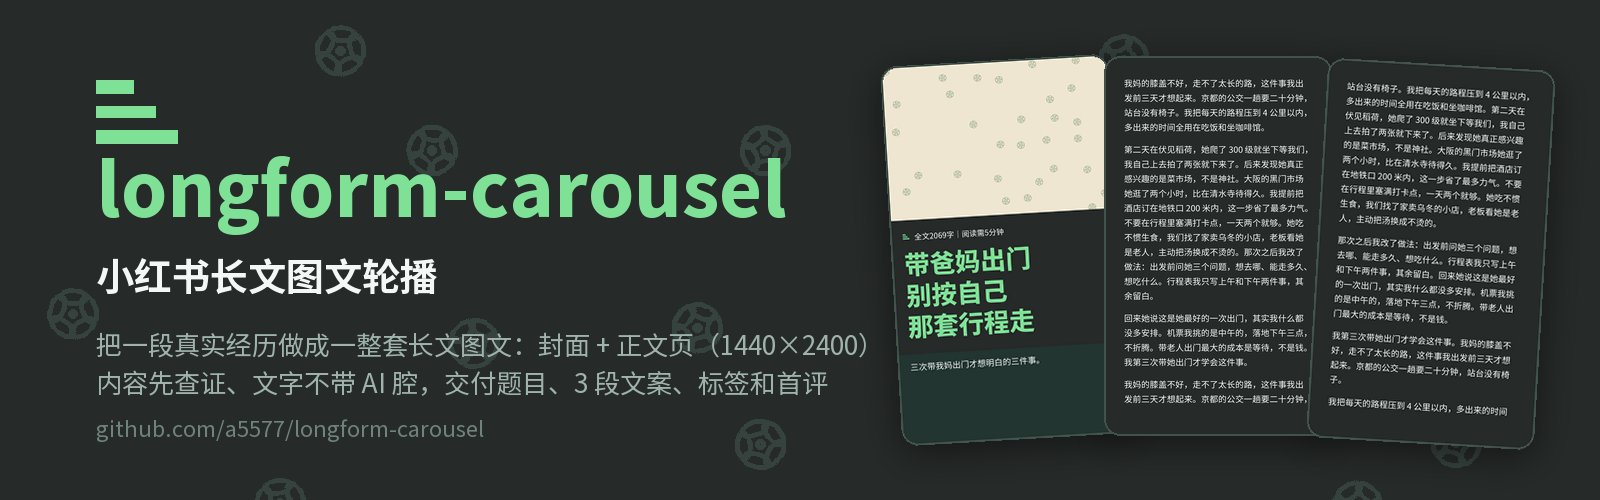
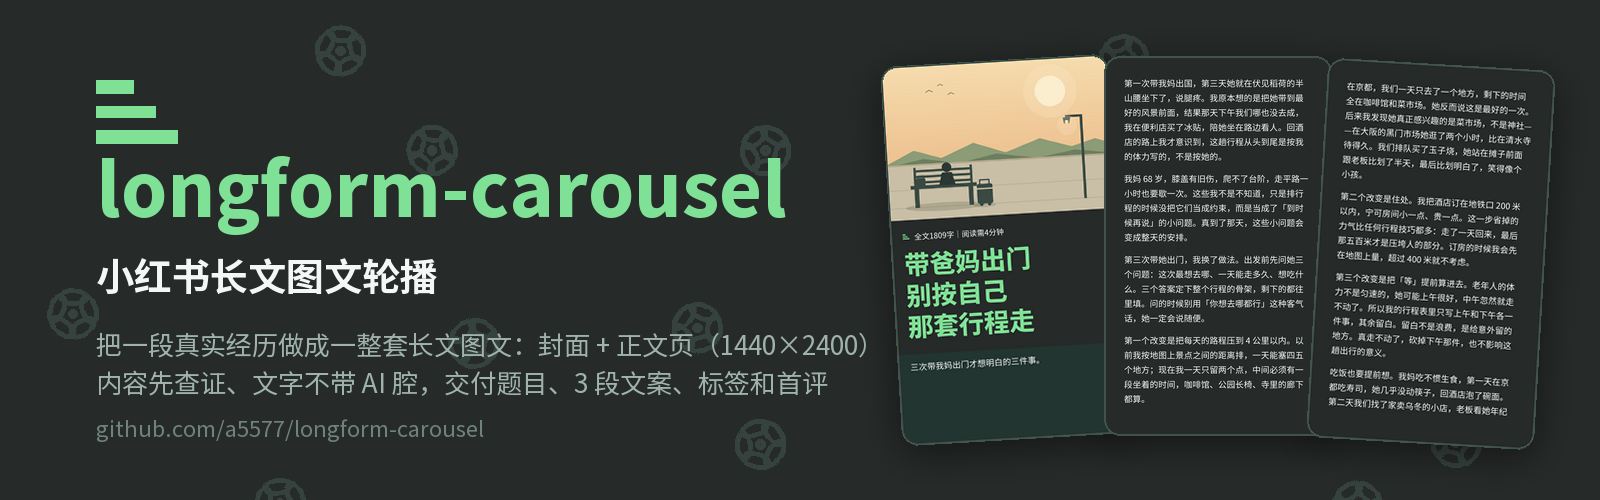
加一份可直接运行的示例，封面插画改用对应画面
- examples/带爸妈出门：笔记.json(1809字) + 来源.md + make_cover.py + cover.png
- 封面插画改为代码绘制的黄昏小站场景，替掉原来的空渐变，重新生成横幅
- README 增加示例一节

Changed region(s): [[0.5312, 0.09, 0.9688, 0.84]]

diff --git a/examples/带爸妈出门/make_cover.py b/examples/带爸妈出门/make_cover.py
@@ -1,0 +1,139 @@
+#!/usr/bin/env python3
+# -*- coding: utf-8 -*-
+"""画这张示例的封面插画（1440×976，扁平风黄昏小站）。
+
+用法：
+    python make_cover.py [输出路径]
+
+为什么是画出来的：这张图要长期放在开源仓库里当示例，用代码画就没有素材授权问题，
+谁 clone 下来都能重跑出一模一样的图。想换成自己拍的照片或 $imagegen 生成的图，
+把 cover.png 替掉即可。
+"""
+
+from __future__ import annotations
+
+import sys
+from pathlib import Path
+
+from PIL import Image, ImageDraw
+
+W, H = 1440, 976
+S = 2                      # 画布放大倍数，画完再缩回去，等于抗锯齿
+
+SKY_TOP = (246, 220, 174)
+SKY_BOT = (232, 178, 127)
+SUN = (251, 240, 210)
+HALO = (250, 232, 196)
+HILL_FAR = (140, 156, 119)
+HILL_NEAR = (109, 127, 94)
+PLATFORM = (201, 191, 166)
+PLATFORM_EDGE = (179, 168, 143)
+INK = (44, 56, 51)
+INK_SOFT = (58, 74, 67)
+WARM = (247, 227, 188)
+
+
+def rect(d, x0, y0, x1, y1, color):
+    d.rectangle((x0 * S, y0 * S, x1 * S, y1 * S), fill=color)
+
+
+def rrect(d, x0, y0, x1, y1, r, color):
+    d.rounded_rectangle((x0 * S, y0 * S, x1 * S, y1 * S), radius=r * S, fill=color)
+
+
+def ellipse(d, cx, cy, rx, ry, color, outline=None, width=0):
+    box = ((cx - rx) * S, (cy - ry) * S, (cx + rx) * S, (cy + ry) * S)
+    d.ellipse(box, fill=color, outline=outline, width=int(width * S))
+
+
+def line(d, pts, color, w):
+    d.line([(x * S, y * S) for x, y in pts], fill=color, width=int(w * S), joint="curve")
+
+
+def poly(d, pts, color):
+    d.polygon([(x * S, y * S) for x, y in pts], fill=color)
+
+
+def sky(img):
+    px = img.load()
+    top, bot = SKY_TOP, SKY_BOT
+    for y in range(H * S):
+        t = y / (H * S - 1)
+        c = tuple(round(top[i] + (bot[i] - top[i]) * t) for i in range(3))
+        for x in range(W * S):
+            px[x, y] = c
+
+
+def build() -> Image.Image:
+    img = Image.new("RGB", (W * S, H * S), SKY_TOP)
+    sky(img)
+    d = ImageDraw.Draw(img, "RGBA")
+
+    # 夕阳
+    ellipse(d, 1062, 214, 168, 168, (*HALO, 70))
+    ellipse(d, 1062, 214, 96, 96, (*SUN, 235))
+
+    # 归鸟
+    for cx, cy, k in ((300, 176, 1.0), (372, 140, 0.8), (438, 198, 0.9)):
+        line(d, [(cx - 22 * k, cy), (cx, cy - 12 * k), (cx + 22 * k, cy)], (*INK_SOFT, 190), 4)
+
+    # 远近两层山
+    poly(d, [(0, 626), (180, 540), (352, 596), (560, 512), (760, 584),
+             (980, 508), (1180, 570), (1330, 528), (1440, 566), (1440, 640), (0, 640)], HILL_FAR)
+    poly(d, [(0, 640), (240, 596), (470, 634), (700, 588), (960, 630),
+             (1200, 592), (1440, 626), (1440, 700), (0, 700)], HILL_NEAR)
+
+    # 站台
+    rect(d, 0, 626, W, H, PLATFORM)
+    rect(d, 0, 626, W, 636, PLATFORM_EDGE)
+    for y in (786, 900):
+        rect(d, 0, y, W, y + 3, PLATFORM_EDGE)
+
+    # 地影
+    ellipse(d, 360, 902, 250, 26, (86, 92, 74, 60))
+    ellipse(d, 610, 908, 70, 14, (86, 92, 74, 55))
+
+    # 长椅
+    seat_y = 762
+    rect(d, 148, seat_y, 566, seat_y + 22, INK_SOFT)
+    rect(d, 172, seat_y + 22, 200, 902, INK_SOFT)
+    rect(d, 514, seat_y + 22, 542, 902, INK_SOFT)
+    rect(d, 172, 648, 186, seat_y, INK_SOFT)
+    rect(d, 528, 648, 542, seat_y, INK_SOFT)
+    for y in (664, 700, 736):
+        rect(d, 172, y, 542, y + 14, INK_SOFT)
+
+    # 坐在长椅上的人（背面）
+    poly(d, [(352, 688), (412, 688), (434, 768), (330, 768)], INK)   # 外套
+    rrect(d, 344, 690, 420, 726, 16, INK)                            # 肩
+    ellipse(d, 382, 656, 30, 30, INK)                                # 头
+    # 长椅另一端放的布包
+    rrect(d, 186, 716, 244, 766, 10, INK_SOFT)
+    line(d, [(196, 716), (196, 702), (234, 702), (234, 716)], INK_SOFT, 7)
+
+    # 行李箱
+    rrect(d, 566, 774, 664, 898, 12, INK_SOFT)
+    line(d, [(586, 776), (586, 748), (644, 748), (644, 776)], INK_SOFT, 8)
+    rect(d, 566, 800, 664, 808, PLATFORM)
+    ellipse(d, 590, 902, 11, 11, INK_SOFT)
+    ellipse(d, 640, 902, 11, 11, INK_SOFT)
+
+    # 路灯
+    rect(d, 1240, 372, 1256, 902, INK_SOFT)
+    rect(d, 1148, 372, 1256, 386, INK_SOFT)
+    poly(d, [(1132, 386), (1180, 386), (1172, 424), (1140, 424)], INK_SOFT)
+    ellipse(d, 1156, 436, 62, 62, (WARM[0], WARM[1], WARM[2], 70))
+    rrect(d, 1146, 404, 1166, 424, 4, WARM)
+
+    return img.resize((W, H), Image.LANCZOS)
+
+
+def main() -> int:
+    out = Path(sys.argv[1]) if len(sys.argv) > 1 else Path(__file__).with_name("cover.png")
+    build().save(out, "PNG", optimize=True)
+    print(f"封面插画 → {out}  {W}×{H}")
+    return 0
+
+
+if __name__ == "__main__":
+    sys.exit(main())

diff --git a/README.md b/README.md
@@ -28,6 +28,7 @@ scripts/
 assets/fonts/         Noto Sans SC / Noto Serif SC（OFL）
 assets/banner.png     README 顶部这张横幅
 assets/make_banner.py 用任意一套渲染好的页面重新生成横幅
+examples/带爸妈出门/   一份可以直接跑的示例（笔记.json + 插画 + 来源）
 ```
 
 ## 配置
@@ -109,6 +110,23 @@ python scripts/package.py --note <笔记目录> --accept-visual "逐页看过，
 ### 7. agents/openai.yaml（可选）
 
 `agents/openai.yaml` 里是技能在界面上的显示名、简介和默认提示词。想改名或换默认提示词就改这三个字段；不需要就直接删掉这个文件，技能照常工作。
+
+## 示例
+
+仓库里带了一份能直接跑的示例：`examples/带爸妈出门/`（生活 / 旅行题材，1809 字，5 页正文，封面出深色／纸底／白底三版）。
+
+```bash
+python scripts/render.py examples/带爸妈出门
+python scripts/check.py  examples/带爸妈出门
+```
+
+里面的 `make_cover.py` 负责画封面插画——黄昏小站、长椅上的背影、旁边的行李箱。插画是**代码画出来的**，没有素材授权问题，谁 clone 下来都能重跑出一模一样的图；想换成自己拍的照片或用 `$imagegen` 生成的图，把 `cover.png` 替掉就行。
+
+README 顶部那张横幅同样是这套示例生成的：
+
+```bash
+python assets/make_banner.py examples/带爸妈出门/pages -o assets/banner.png
+```
 
 ## 字数与页数
 

diff --git a/examples/带爸妈出门/来源.md b/examples/带爸妈出门/来源.md
@@ -1,0 +1,21 @@
+# 来源
+
+> 这是示例，正文是演示用的素材，**不是真实查证结果**。
+> 你自己写的时候，每一条要上版面的说法都按下面这个格式记一行；查不到出处的直接删掉。
+
+## 事实
+
+- 说法：日本国家旅游局有面向老年人与无障碍出行的公开指引
+  出处：（示例）日本国家旅游局 — https://example.com/accessible-travel
+  时间：2025-03-01　访问：2026-10-11
+  原文：示例文本，不引用。
+
+- 说法：京都伏见稻荷大社的千本鸟居为台阶坡道，全程登顶约需 2 小时
+  出处：（示例）伏见稻荷大社官网 — https://example.com/fushimi
+  时间：2024-11-20　访问：2026-10-11
+  原文：示例文本，不引用。
+
+## 不写的
+
+- 「带老人出门必须买旅行保险」：找不到统一口径的出处，放弃。
+- 「每天走 X 千步最合适」：数字来源不明，改成写「一天只留两个点」这种可执行的说法。
